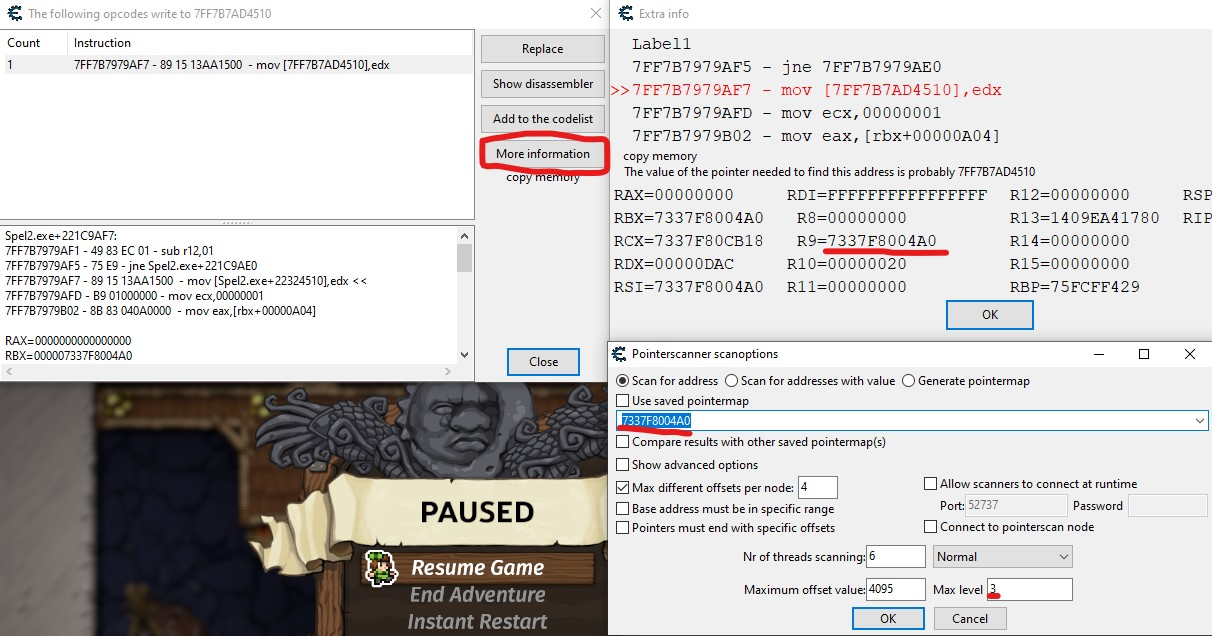
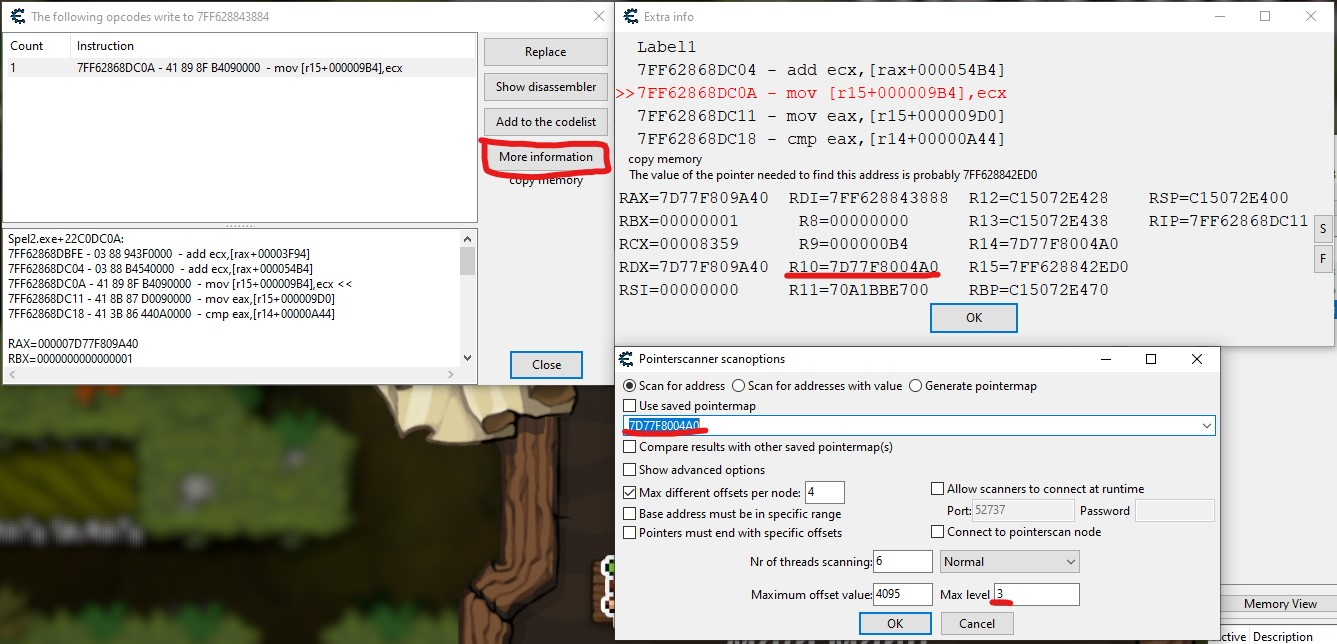
update documentation for 1.25.0b

diff --git a/JesterCap/MainWindow.xaml b/JesterCap/MainWindow.xaml
@@ -31,7 +31,7 @@
             <Grid>
                 <Label HorizontalAlignment="Center" VerticalAlignment="Top" Padding="5,3,5,3" Margin="0,10,0,10" Foreground="White">Collect True Crown</Label>
                 <Image x:Name="IconReader" HorizontalAlignment="Center" VerticalAlignment="Center" Source="Resources/true_crown_shadow.png" Width="64"></Image>
-                <Label x:Name="LabelReader" HorizontalAlignment="Center" VerticalAlignment="Bottom" Padding="5,3,5,3" Margin="0,12,0,12" Foreground="White">Score Previous Level: 0</Label>
+                <Label x:Name="LabelReader" HorizontalAlignment="Center" VerticalAlignment="Bottom" Padding="5,3,5,3" Margin="0,12,0,12" Foreground="White">Score: 0</Label>
             </Grid>
         </Border>
 

diff --git a/JesterCap/TimerLogic.cs b/JesterCap/TimerLogic.cs
@@ -84,7 +84,7 @@ namespace JesterCap
             }
             int currentScore = ProcessReader.GetScore();
             mainWindow.Dispatcher.Invoke(() => {
-                mainWindow.LabelReader.Content = string.Format("Score Previous Level: {0}", currentScore);
+                mainWindow.LabelReader.Content = string.Format("Score: {0}", currentScore);
             });
 
             IntPtr gamePointer = ProcessReader.GetGamePointer();

diff --git a/REVERSE_ENGINEERING.md b/REVERSE_ENGINEERING.md
@@ -20,7 +20,7 @@ A "memory offset" refers to a particular location in memory. We are going to use
 We'll start by searching for an offset we can use to read the current score from Spelunky 2. To accomplish this, we're going to repeatedly change the value of our score (by picking up treasure in-game) and looking for memory values that consistently match our changing score value.
 
 * Start up Spelunky 2 and begin a run.
-    * I recommend using the seed `00000008`. This seed contains a guaranteed True Crown on 2-2 (assuming you complete Beg's quest on the previous levels).
+    * I recommend using the seed `00000008`. This seed contains a guaranteed True Crown on Jungle 2-3 (assuming you complete Beg's quest on the previous levels).
 * Ensure CE is set to use "page exceptions" (see "Setup" section).
 * Attach CE to the Spelunky 2 process.
 * Pick up some treasure in Spelunky 2 so that your score is not 0.
@@ -57,7 +57,7 @@ Click "Stop" on the new window to detach the debugger from Spelunky 2, select th
 
 When I was initially putting JesterCap together I spent a lot of time in the disassembler figuring out how this score value gets calculated. To make a long story short, the game tracks each player seperately, including how much gold each player has picked up and spent. Every time gold gets picked up, this calculation is performed again.
 
-It turns out that when the opcode instruction is run, Register 9 (R9) contains an pointer to some of player 1's data. This pointer is not the same as an offset; the value of the pointer can change every time the program is run. However, there is a fixed offset somewhere that contains the value of this pointer. We need to use CE's [**Pointer Scan**](https://cheatengine.org/help/pointer-scan.htm) functionality to find it.
+It turns out that when the opcode instruction is run, Register 10 (R10) contains an pointer to some of player 1's data. This pointer is not the same as an offset; the value of the pointer can change every time the program is run. However, there is a fixed offset somewhere that contains the value of this pointer. We need to use CE's [**Pointer Scan**](https://cheatengine.org/help/pointer-scan.htm) functionality to find it.
 
 * Select the opcode instruction that writes to the score offset
 * Click "More information" to open a window showing the state of every register when that instruction was executed
